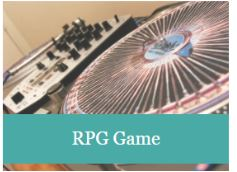
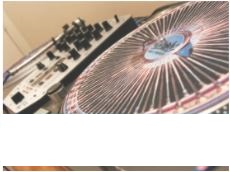
second revised file

diff --git a/contact.html b/contact.html
@@ -3,17 +3,23 @@
 
 <head>
   <meta charset="UTF-8">
+  <meta name="viewport" content="width=device-width, initial-scale=1, shrink-to-fit=no">
+
+  <!-- Bootstrap CSS -->
+  <link rel="stylesheet" href="https://stackpath.bootstrapcdn.com/bootstrap/4.1.1/css/bootstrap.min.css" integrity="sha384-WskhaSGFgHYWDcbwN70/dfYBj47jz9qbsMId/iRN3ewGhXQFZCSftd1LZCfmhktB" crossorigin="anonymous">
+
   <title>Contact</title>
   <link rel="stylesheet" type="text/css" href="./assets/css/style.css">
 </head>
 
 <body>
         <header>
+          
             
             <div class="Information">
                
-                <div id="Name">
-                   Sanchit
+                <div id="Name1">
+                   My Portfolio
                    </div>
 
                  <div id="links">
@@ -21,27 +27,42 @@
                    <a href="portfolio.html" class="about">Portfolio</a> 
                    <a href="contact.html" class="about">Contact</a> 
                     </div>
-            </div>
-
-        </header>
-   
-    <div class="AboutMe">
-        <div class="about">
-        <h1>Contact</h1>
-        <div class="name">
-            <label for="usr"> Name:</label>
-            <input type="text" class="name" id="usr">
-            </div>
-        <div class="email">
-                    <label for="emailAddress"> Email</label>
-                    <input type="text" class="email" id="emailAddress">
                     </div>
-        <div class="m">
-                    <label for="message"> Message</label>
-                    <input type="text" class="m" id="message">
-                     </div>
-        <button class="submit">Submit</button>
+                    </header>
+                  
+
+        
+        <div class="Contact">
+            <div class="Name">
+            <h1>Contact </h1>
+            <div id = "underline"></div>
+            <form>
+                <div class="form-group">
+                <label for="exampleInputEmail1">Name</label>
+                <input type="text" class="form-control" placeholder="Name">
+                </div>
+                <div class="form-group">
+                  <label for="exampleInputEmail1">Email address</label>
+                  <input type="email" class="form-control" id="exampleInputEmail1" aria-describedby="emailHelp" placeholder="Enter email">
+                  </div>
+                  <div class="form-group">
+                        <label for="exampleFormControlTextarea1">Message</label>
+                        <textarea class="form-control" id="exampleFormControlTextarea1" rows="3"></textarea>
+                      </div>
+               
+                <button type="submit" class="btn btn-primary">Submit</button>
+              </form>
+            
+                    </div>
+            </div>
+   
+                       
         </div>
+        </div>
+    <script src="https://code.jquery.com/jquery-3.3.1.slim.min.js" integrity="sha384-q8i/X+965DzO0rT7abK41JStQIAqVgRVzpbzo5smXKp4YfRvH+8abtTE1Pi6jizo" crossorigin="anonymous"></script>
+    <script src="https://cdnjs.cloudflare.com/ajax/libs/popper.js/1.14.3/umd/popper.min.js" integrity="sha384-ZMP7rVo3mIykV+2+9J3UJ46jBk0WLaUAdn689aCwoqbBJiSnjAK/l8WvCWPIPm49" crossorigin="anonymous"></script>
+    <script src="https://stackpath.bootstrapcdn.com/bootstrap/4.1.1/js/bootstrap.min.js" integrity="sha384-smHYKdLADwkXOn1EmN1qk/HfnUcbVRZyYmZ4qpPea6sjB/pTJ0euyQp0Mk8ck+5T" crossorigin="anonymous"></script>
+  
 </body>
 
 </html>

diff --git a/assets/css/style.css b/assets/css/style.css
@@ -115,11 +115,39 @@ img{
     left: 305px;
     
 }
+#hangmanText
+{
+    font-family: Arial, Helvetica, sans-serif;
+    position: absolute;
+    left: auto;
+    top: 128px;
+    width: 200px;
+    height: 40px;
+    padding: 20px 0px 0px 0px;
+    bottom: 0px;
+    color: #ffffff;
+    background-color: #4aaaa5;
+    text-align: center;
+}
 #triviagame
 {
     position: absolute;
     top: 410px;
     left: 305px;
+}
+#triviaGameText
+{
+    font-family: Arial, Helvetica, sans-serif;
+    position: absolute;
+    left: 310px;
+    top: 540px;
+    width: 195px;
+    height: 48px;
+    padding: 20px 0px 0px 0px;
+    bottom: 0px;
+    color: #ffffff;
+    background-color: #4aaaa5;
+    text-align: center;
 }
 #rockpaper
 {
@@ -128,11 +156,39 @@ img{
     left: 305px;
     
 }
+#rockPaperText
+{
+    font-family: Arial, Helvetica, sans-serif;
+    position: absolute;
+    left: 308px;
+    top: 758px;
+    width: 195px;
+    height: 40px;
+    padding: 20px 0px 0px 0px;
+    bottom: 0px;
+    color: #ffffff;
+    background-color: #4aaaa5;
+    text-align: center;
+}
 #game
 {
     position: absolute;
     top: 200px;
     left: 550px;
+}
+#gameText
+{
+    font-family: Arial, Helvetica, sans-serif;
+    position: absolute;
+    left: 552px;
+    top: 333px;
+    width: 198px;
+    height: 40px;
+    padding: 20px 0px 0px 0px;
+    bottom: 0px;
+    color: #ffffff;
+    background-color: #4aaaa5;
+    text-align: center;
 }
 #info
 {
@@ -140,7 +196,62 @@ img{
     top: 410px;
     left: 550px;
 }
-.submit
+
+#infoText
+{
+    font-family: Arial, Helvetica, sans-serif;
+    position: absolute;
+    left: 551px;
+    top: 539px;
+    width: 198px;
+    height: 44px;
+    padding: 20px 0px 0px 0px;
+    bottom: 0px;
+    color: #ffffff;
+    background-color: #4aaaa5;
+    text-align: center;
+}
+
+    
+
+#Name1
+{  
+    font-family: Arial, Helvetica, sans-serif;
+    position: absolute;
+    left: auto;
+    top: 1px;
+    width: 150px;
+    height: 60px;
+    padding: 20px 0px 0px 0px;
+    bottom: 0px;
+    color: #ffffff;
+    background-color: #4aaaa5;
+    font-weight: bold;
+    text-align: center;
+}
+.Contact
+{
+    position: absolute;
+    left: 280px;
+    top:90px;
+    width: 960px;
+    height: 550px;
+    margin: auto;
+    
+    background-color: #ffffff;
+}
+.Name
+{
+    position: absolute;
+    top: 50px;
+    left: 27px;
+    width: 910px;
+    height: 500px;
+    color: #777777;
+    margin: auto;
+    
+}
+.btn-primary
 {  
     font-family: Arial, Helvetica, sans-serif;
     width: 150px;

diff --git a/index.html b/index.html
@@ -13,7 +13,7 @@
             <div class="Information">
                
                 <div id="Name">
-                   Sanchit
+                   My Portfolio
                    </div>
 
                  <div id="links">
@@ -27,12 +27,29 @@
    
     <div class="AboutMe">
         <div class="about">
-        <h1>About Me</h1>
+        <h1>About Me </h1>
         <div id = "underline"></div>
-        <p><img src="./assets/images/profile.jpg" alt="Sanchit" width="100" height="150"> 
-        My name is Sanchit. I studied Engineering and currently studying programming. My favourite subject is computer programming and my hobbies are coding and reading books.
+        <p>(Please note: Text Below generated from Lorem Ipsum Generator)</p>
+        <p><img src="./assets/images/profile.jpg" alt="profile" width="100" height="150"> 
+            
+            Lorem ipsum dolor sit amet, consectetur adipiscing elit. Phasellus molestie elit ac sodales venenatis. 
+            Ut at tristique purus, non blandit urna. Donec varius erat vel diam eleifend, vel venenatis ligula consectetur. 
+            Mauris a urna ut quam fermentum rhoncus. Mauris vel convallis elit. Nulla sed tempor lectus, non ullamcorper ex. Lorem ipsum dolor sit amet, 
+            consectetur adipiscing elit. Mauris vel ex odio. Ut id tortor mollis, consectetur nulla sed, dignissim nulla. Sed elementum, elit eget pellentesque 
+            porttitor, eros neque tincidunt diam, sed faucibus lacus ipsum id lacus. Fusce lorem turpis, tincidunt at velit at, congue imperdiet erat. 
+            Orci varius natoque penatibus et magnis dis parturient montes, nascetur ridiculus mus. Praesent et massa blandit tellus maximus condimentum.
+            Curabitur at volutpat erat. Maecenas ac lectus eu lacus venenatis commodo. 
         </p>
-        </div>
+        
+        <p>Etiam suscipit scelerisque bibendum. Lorem ipsum dolor sit amet, consectetur adipiscing 
+           elit. Vivamus tempor eget augue sed consectetur. Duis maximus mi in ultrices laoreet. Donec eleifend, diam id molestie pellentesque, nibh enim tempor odio, non 
+           hendrerit metus dolor eget lorem.
+        </p>
+        
+        <p>Aliquam molestie efficitur lorem, quis posuere risus egestas vitae. Nam molestie posuere lacus at malesuada. Sed molestie semper elit, interdum dictum 
+            libero pellentesque quis.
+         </p>
+                </div>
         </div>
 </body>
 

diff --git a/portfolio.html b/portfolio.html
@@ -13,7 +13,7 @@
             <div class="Information">
                
                 <div id="Name">
-                   Sanchit
+                   My Portfolio
                    </div>
 
                  <div id="links">
@@ -29,11 +29,17 @@
         <div class="portfolio">
         <h1>Portfolio</h1>
         <div id = "underline"></div>
-        <div id="hangman"><img src="./assets/images/Hangman.jpg" alt="" width="200" height="200"> </div>
+        <div id="hangman"><img src="./assets/images/Hangman.jpg" alt="" width="200" height="200"> 
+        <div id="hangmanText"> Hangman </div>
+        </div>
         <div id="triviagame"><img src="./assets/images/triviaGame.jpg" alt="" width="200" height="200"> </div>
+        <div id="triviaGameText"> Trivia Game </div>
         <div id="rockpaper"><img src="./assets/images/rockPaper.jpg" alt="" width="200" height="200"> </div>
+        <div id="rockPaperText"> Rock Paper Scissors </div>
         <div id="game"><img src="./assets/images/Game.jpg" alt="" width="200" height="200"> </div>
+        <div id="gameText"> RPG Game </div>
         <div id="info"><img src="./assets/images/Info.jpg" alt="" width="200" height="200"> </div>
+        <div id="infoText"> Rutgers Info Widget </div>
 
         
         </p>
